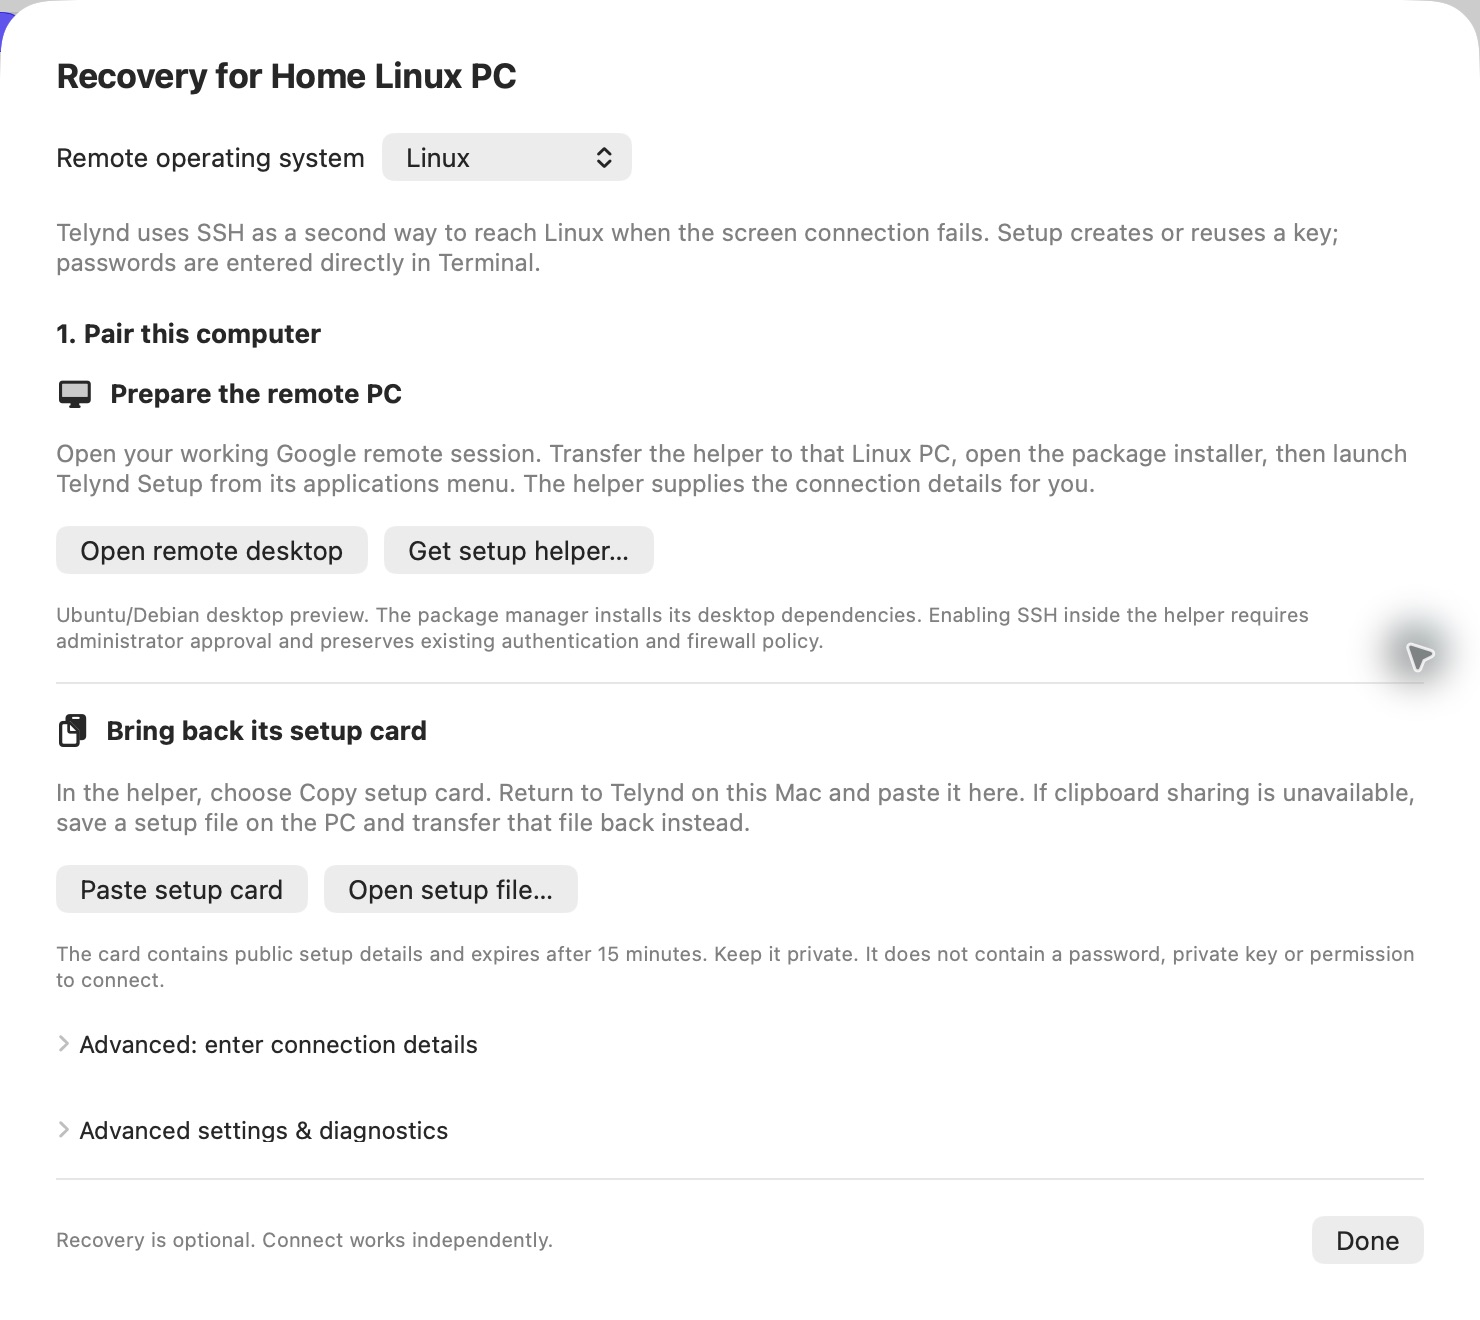
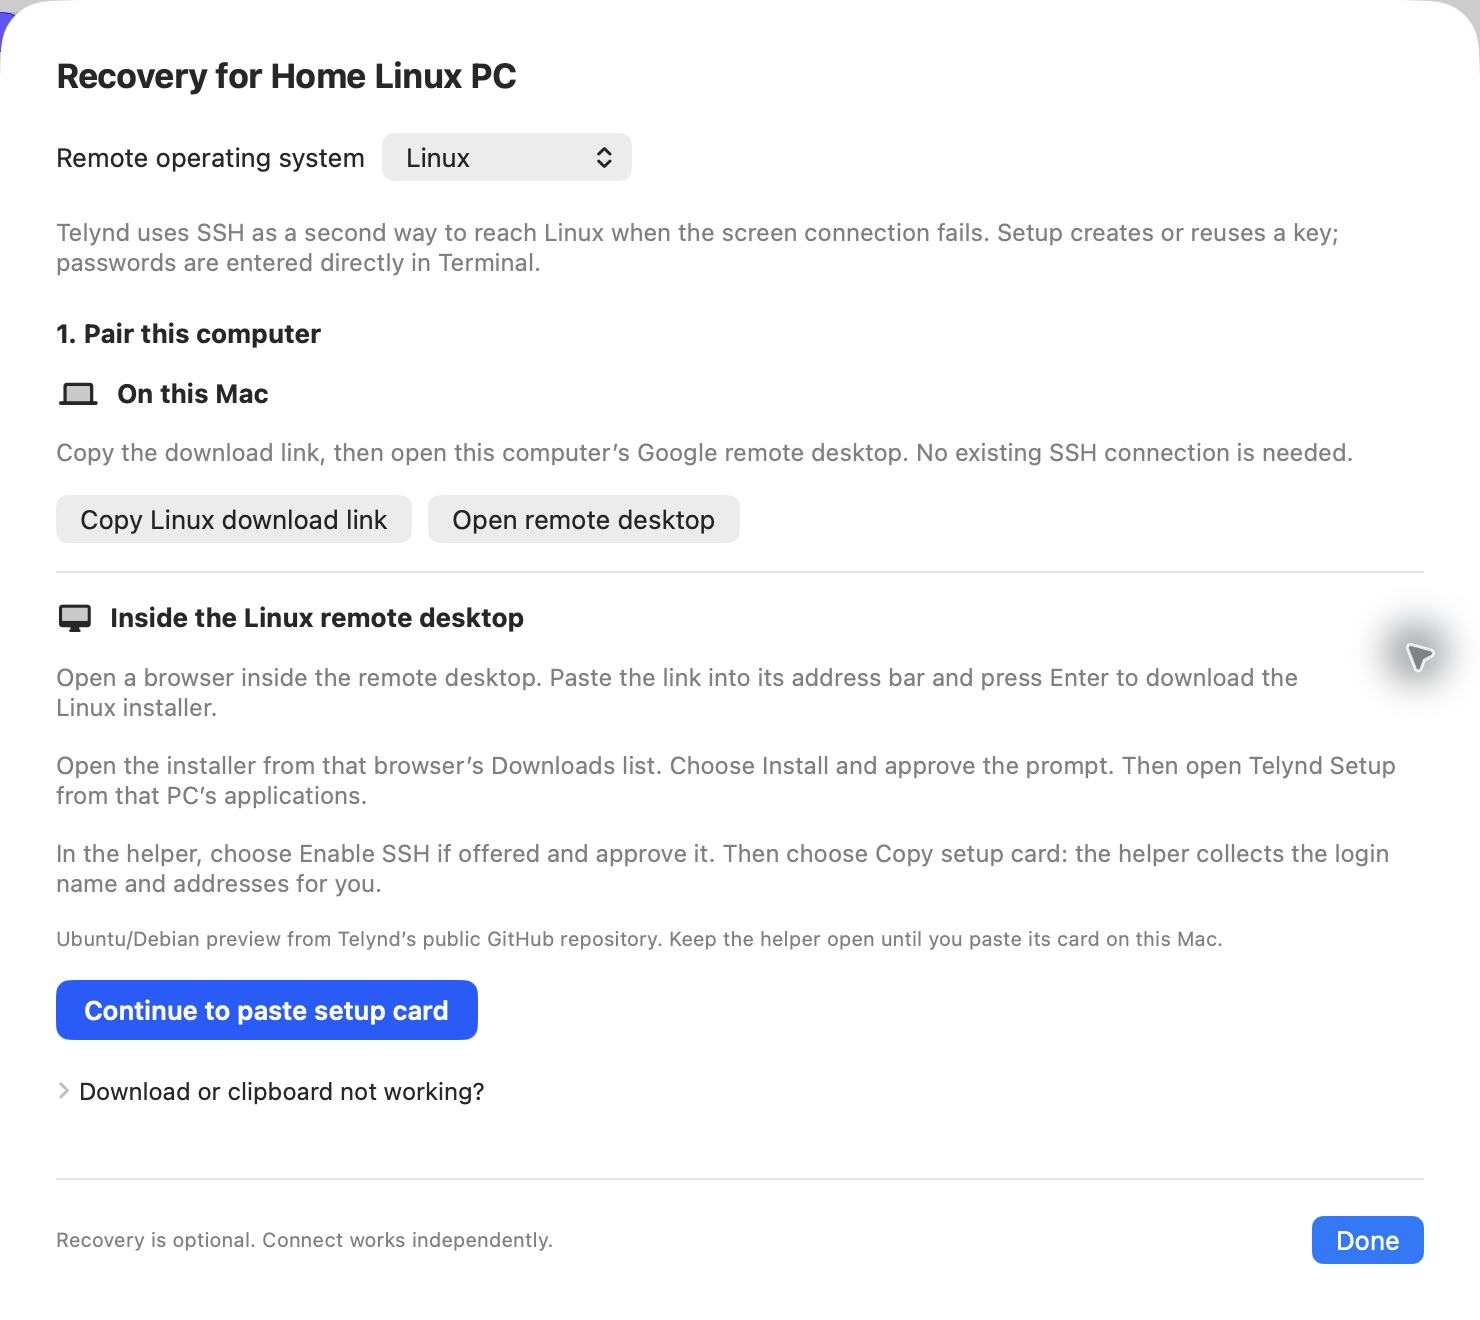
Separate Linux preparation from the Mac pairing step

Changed region(s): [[0.0311, 0.3417, 0.9635, 0.8697], [0.0311, 0.2795, 0.2797, 0.3106], [0.8703, 0.9008, 0.9635, 0.9629]]

diff --git a/Sources/Telynd/PairingSetupView.swift b/Sources/Telynd/PairingSetupView.swift
@@ -13,6 +13,7 @@ struct PairingSetupView: View {
     @State private var request: UUID?
     @State private var control: PairingProbeControl?
     @State private var downloadCopied = false
+    @State private var showingImport = false
 
     private func cancel() { control?.cancel(); control = nil; request = nil; checking = false }
     private func receive(_ text: String?) {
@@ -48,9 +49,9 @@ struct PairingSetupView: View {
     }
     var body: some View {
         VStack(alignment: .leading, spacing: 14) {
-            if card == nil {
+            if !showingImport {
                 Label("On this Mac", systemImage: "laptopcomputer").font(.headline)
-                Text("Copy the Linux download link, then open this computer’s Google remote desktop. SSH is not needed yet.").font(.callout).foregroundStyle(.secondary)
+                Text("Copy the download link, then open this computer’s Google remote desktop. No existing SSH connection is needed.").font(.callout).foregroundStyle(.secondary)
                 HStack {
                     Button("Copy Linux download link") { downloadCopied = store.copyLinuxSetupDownloadLink() }
                     Button("Open remote desktop") { store.connect(desktop) }
@@ -61,12 +62,13 @@ struct PairingSetupView: View {
                 }
                 Divider()
                 Label("Inside the Linux remote desktop", systemImage: "desktopcomputer").font(.headline)
-                Text("Open a web browser there, paste the link into its address bar and press Enter. This downloads the installer onto the Linux PC.").font(.callout).foregroundStyle(.secondary)
-                Text("When the download finishes, open \(LinuxSetupDownload.filename) from that browser’s Downloads list. Choose Install and approve the administrator prompt. Then find Telynd Setup in that PC’s applications and open it.").font(.callout).foregroundStyle(.secondary)
-                Text("In Telynd Setup, choose Enable SSH if offered and approve the prompt. When ready, choose Copy setup card. The helper finds your login name and addresses for you.").font(.callout).foregroundStyle(.secondary)
-                Text("Ubuntu/Debian desktop preview, downloaded from Telynd’s public GitHub repository. Keep the helper open until you have pasted its setup card.").font(.caption).foregroundStyle(.secondary)
-                Divider()
+                Text("Open a browser inside the remote desktop. Paste the link into its address bar and press Enter to download the Linux installer.").font(.callout).foregroundStyle(.secondary)
+                Text("Open the installer from that browser’s Downloads list. Choose Install and approve the prompt. Then open Telynd Setup from that PC’s applications.").font(.callout).foregroundStyle(.secondary)
+                Text("In the helper, choose Enable SSH if offered and approve it. Then choose Copy setup card: the helper collects the login name and addresses for you.").font(.callout).foregroundStyle(.secondary)
+                Text("Ubuntu/Debian preview from Telynd’s public GitHub repository. Keep the helper open until you paste its card on this Mac.").font(.caption).foregroundStyle(.secondary)
+                Button("Continue to paste setup card") { showingImport = true }.buttonStyle(ConnectButton())
             }
+            if showingImport {
             Label("Back in Telynd on this Mac", systemImage: "doc.on.clipboard").font(.headline)
             Text("Return from the remote desktop and choose Paste setup card below. A setup card is the connection information copied by the Linux helper; it contains no password.").font(.callout).foregroundStyle(.secondary)
             HStack {
@@ -93,15 +95,17 @@ struct PairingSetupView: View {
             }
             if let note { Text(note).font(.callout).foregroundStyle(.secondary) }
             Text("The card contains public setup details and expires after 15 minutes. Keep it private. It does not contain a password, private key or permission to connect.").font(.caption).foregroundStyle(.secondary)
+            Button("Back to Linux setup instructions") { cancel(); card = nil; matchedAddress = nil; note = nil; showingImport = false }
+            }
             DisclosureGroup("Download or clipboard not working?") {
                 VStack(alignment: .leading, spacing: 10) {
                     Text("If the Linux PC cannot download from GitHub: save the installer on this Mac, then use File transfer → Upload file in Google’s remote-session side panel to send it to that PC. Find the uploaded file on Linux and open it there. If upload is unavailable, ask its administrator to provide the installer.")
                     Button("Save installer on this Mac…") { store.exportLinuxSetupHelper() }
-                    Text("If the copied card cannot be pasted here: choose Save setup file in the Linux helper. Use Google’s File transfer → Download file to bring that file to this Mac, then choose Open setup file above. Both transfer directions depend on Google’s available session controls and your organisation’s policy.")
+                    Text("If the copied card cannot be pasted here: choose Save setup file in the Linux helper. Use Google’s File transfer → Download file to bring that file to this Mac. On Telynd’s setup-card screen, choose Open setup file. Both transfer directions depend on Google’s available session controls and your organisation’s policy.")
                     Text("Enabling SSH requires administrator approval on Linux. Existing authentication and firewall policy remain in control; no VPN is installed. Installation and access approval are separate steps.")
                 }.font(.caption).foregroundStyle(.secondary).padding(.top, 8)
             }.font(.callout)
-        }.onChange(of: desktop) { _ in cancel(); card = nil; matchedAddress = nil }
+        }.onChange(of: desktop) { _ in cancel(); card = nil; matchedAddress = nil; showingImport = false }
             .onDisappear { cancel() }
     }
 }

diff --git a/docs/validation.md b/docs/validation.md
@@ -1,5 +1,37 @@
 # Onboarding validation record
 
+## First-time setup instructions and direct Linux download, 24 October 2026
+
+The initial route is a working Google remote session, with no existing SSH
+requirement. The preparation screen separates **On this Mac** from **Inside
+the Linux remote desktop**: copy a download link, open the remote desktop,
+then download and install Telynd Setup in a browser on Linux. The helper offers
+SSH enablement and supplies the login/address details. **Continue to paste
+setup card** opens a separate **Back in Telynd on this Mac** screen. Manual
+installer transfer is a documented fallback, with named Google upload/download
+controls; it is no longer the default journey.
+
+The helper is already committed in the public repository. An actual HTTPS
+request retrieved the fixed-commit `.deb`, byte-identical to the bundled
+installer. The app supplies that URL only when the local installer matches
+its pinned SHA256. There is no mutable latest URL, new public release,
+remote command execution, automatic installation or prerequisite SSH login.
+The Linux user opens the download and approves its installation and SSH setup.
+
+All 73 Swift tests passed, including the URL pin and rejection of mismatched
+installer bytes. Native synthetic checks verified the copy-link success
+feedback, the preparation screen's visible Continue action, a separate paste
+screen with its controls visible without scrolling, and return navigation.
+The app-discovery cache and a refused overwrite of a custom preview bundle
+initially selected an older preview; the final checks used a freshly assembled
+bundle with its new Continue string verified before launch. No private host,
+real Google authentication or Linux administrator prompt was exercised.
+A real first-time-user enrolment pilot remains outstanding.
+
+![Prepare Linux without an existing SSH connection](images/guided-pairing.png)
+
+![Return to the Mac and paste the helper's connection details](images/pairing-paste-details.png)
+
 ## Guided Linux desktop pairing, 24 October 2026
 
 New Linux recovery starts with a desktop helper and short-lived setup card.

diff --git a/docs/pairing.md b/docs/pairing.md
@@ -23,7 +23,8 @@ supplies the connection details, and the Mac checks for a matching route.
    policy, VPN configuration or authorised keys, or open firewall/router ports.
    When ready, choose **Copy setup card**. The helper collects the login name,
    addresses and public SSH identity; the user does not have to find them.
-4. **Back in Telynd on this Mac:** choose **Paste setup card**. A setup card is
+4. **Back in Telynd on this Mac:** choose **Continue to paste setup card**,
+   then **Paste setup card**. A setup card is
    the connection information copied by the Linux helper. Keep the helper open
    until pasting because some Linux clipboard managers retain data only while
    the source app runs. If copied text does not reach this Mac, use the
